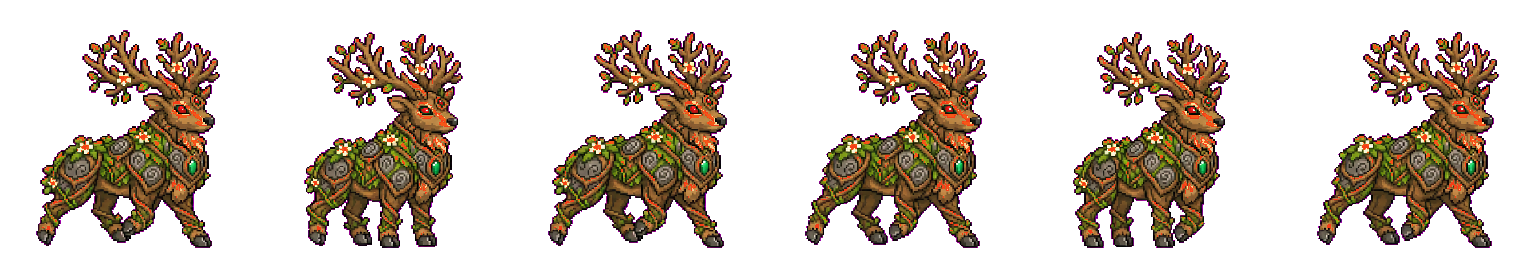
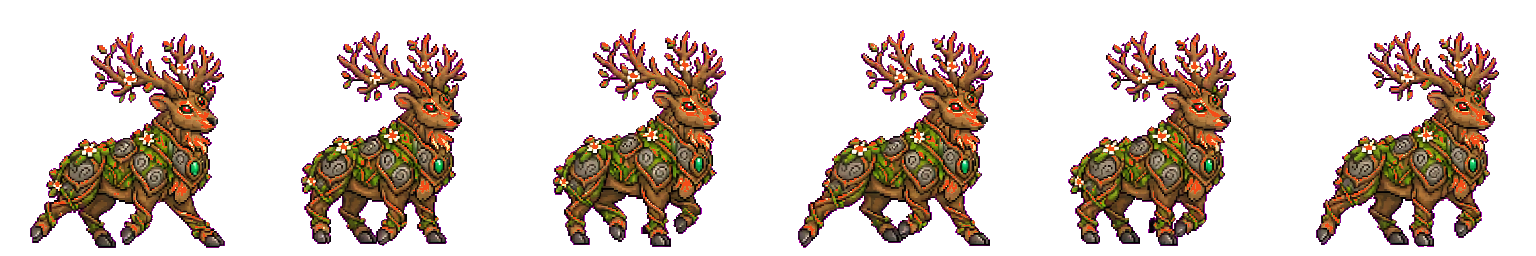
Refaz WALK e encaixe das montarias do Rei Cervo (#32)

diff --git a/public/demo64/game-original.js b/public/demo64/game-original.js
@@ -111,13 +111,13 @@
              bob: [0, -2, -4, -2, 0, -1],
              offs: { n: [0, -32], w: [0, -32], s: [0, -32], e: [0, -32] } },
     ancestral_deer: { frame: 256, walkCols: 6, speed: 275, dy: 32, rate: 9,
-             scale: 0.58, singleRow: true, legY: -50,
+             scale: 0.58, singleRow: true, legY: -27,
              bob: [0, -2, 0, -2, 0, -2],
-             offs: { n: [0, -43], w: [0, -43], s: [0, -43], e: [0, -43] } },
+             offs: { n: [0, -25], w: [0, -25], s: [0, -25], e: [0, -25] } },
     spring_deer: { frame: 256, walkCols: 6, speed: 285, dy: 32, rate: 9,
-             scale: 0.58, singleRow: true, legY: -50,
+             scale: 0.58, singleRow: true, legY: -27,
              bob: [0, -2, 0, -2, 0, -2],
-             offs: { n: [0, -43], w: [0, -43], s: [0, -43], e: [0, -43] } },
+             offs: { n: [0, -25], w: [0, -25], s: [0, -25], e: [0, -25] } },
   };
 
   // --- monstros Pixel Adventure (upscalados 2x → frame nativo × 2 no load): ---
@@ -180,8 +180,8 @@
     this.load.spritesheet('meadow-turtle-attack', A + 'creatures/campo/meadow_turtle/attack.png?v=1', { frameWidth: 192, frameHeight: 192 });
     this.load.image('deer-king-idle', A + 'creatures/campo/deer_king/idle.png?v=cartoon1');
     this.load.image('deer-king-enraged', A + 'creatures/campo/deer_king/enraged.png?v=polish1');
-    this.load.spritesheet('deer-king-walk', A + 'creatures/campo/deer_king/walk.png?v=polish1', { frameWidth: 256, frameHeight: 256 });
-    this.load.spritesheet('deer-king-walk-enraged', A + 'player/mount/spring_deer/walk.png?v=deer-mount-v1', { frameWidth: 256, frameHeight: 256 });
+    this.load.spritesheet('deer-king-walk', A + 'creatures/campo/deer_king/walk.png?v=walk3', { frameWidth: 256, frameHeight: 256 });
+    this.load.spritesheet('deer-king-walk-enraged', A + 'player/mount/spring_deer/walk.png?v=walk3', { frameWidth: 256, frameHeight: 256 });
     this.load.spritesheet('deer-king-charge', A + 'creatures/campo/deer_king/charge.png?v=cartoon1', { frameWidth: 256, frameHeight: 256 });
     this.load.spritesheet('deer-king-charge-enraged', A + 'creatures/campo/deer_king/charge_enraged.png?v=polish1', { frameWidth: 256, frameHeight: 256 });
     for (const n of ['yeti', 'golem', 'wolf']) { // IA PixelLab: 92px, idle 1col / walk 6col, linhas n/w/s/e
@@ -216,7 +216,7 @@
     }
     for (const [m, cfg] of Object.entries(AI_MOUNTS)) {
       const mountVersion = m === 'skeletal_horse_gold' ? '?v=green-eye-v2'
-        : (m === 'ancestral_deer' || m === 'spring_deer') ? '?v=deer-mount-v1' : '';
+        : (m === 'ancestral_deer' || m === 'spring_deer') ? '?v=walk3' : '';
       this.load.spritesheet(`mtai-${m}-idle`, `${A}player/mount/${m}/idle.png${mountVersion}`, { frameWidth: cfg.frame, frameHeight: cfg.frame });
       this.load.spritesheet(`mtai-${m}-walk`, `${A}player/mount/${m}/walk.png${mountVersion}`, { frameWidth: cfg.frame, frameHeight: cfg.frame });
     }
@@ -1886,7 +1886,9 @@
     // rastro espectral no galope (skill 2 — clona o frame corrente, qualquer montaria)
     if (this.P.mount && this.player.moving && time - (this._ghostT || 0) > 95) {
       this._ghostT = time;
-      this.fxGhost(this.P.mount === 'skeletal_horse_gold' ? 0xff7a20 : undefined);
+      const trailTint = this.P.mount === 'spring_deer' ? 0xff3028
+        : this.P.mount === 'skeletal_horse_gold' ? 0xff7a20 : undefined;
+      this.fxGhost(trailTint);
     }
     const baseSpeed = this.P.mount
       ? (AI_MOUNTS[this.P.mount] ? AI_MOUNTS[this.P.mount].speed : 260)

diff --git a/public/demo64/game.js b/public/demo64/game.js
@@ -1,7 +1,7 @@
 /* GameRPG loader */
 (function () {
   const script = document.createElement('script');
-  script.src = './game-original.js?v=deer-king-hitbox-v1';
+  script.src = './game-original.js?v=deer-walk-v3';
   script.onerror = () => console.error('[GameRPG] Falha ao carregar o jogo principal.');
   document.head.appendChild(script);
 })();

diff --git a/public/demo64/index.html b/public/demo64/index.html
@@ -581,6 +581,6 @@ addEventListener('keydown', e => {
   sync();
 })();
 </script>
-<script src="game.js?v=deer-king-hitbox-v1"></script>
+<script src="game.js?v=deer-walk-v3"></script>
 </body>
 </html>
